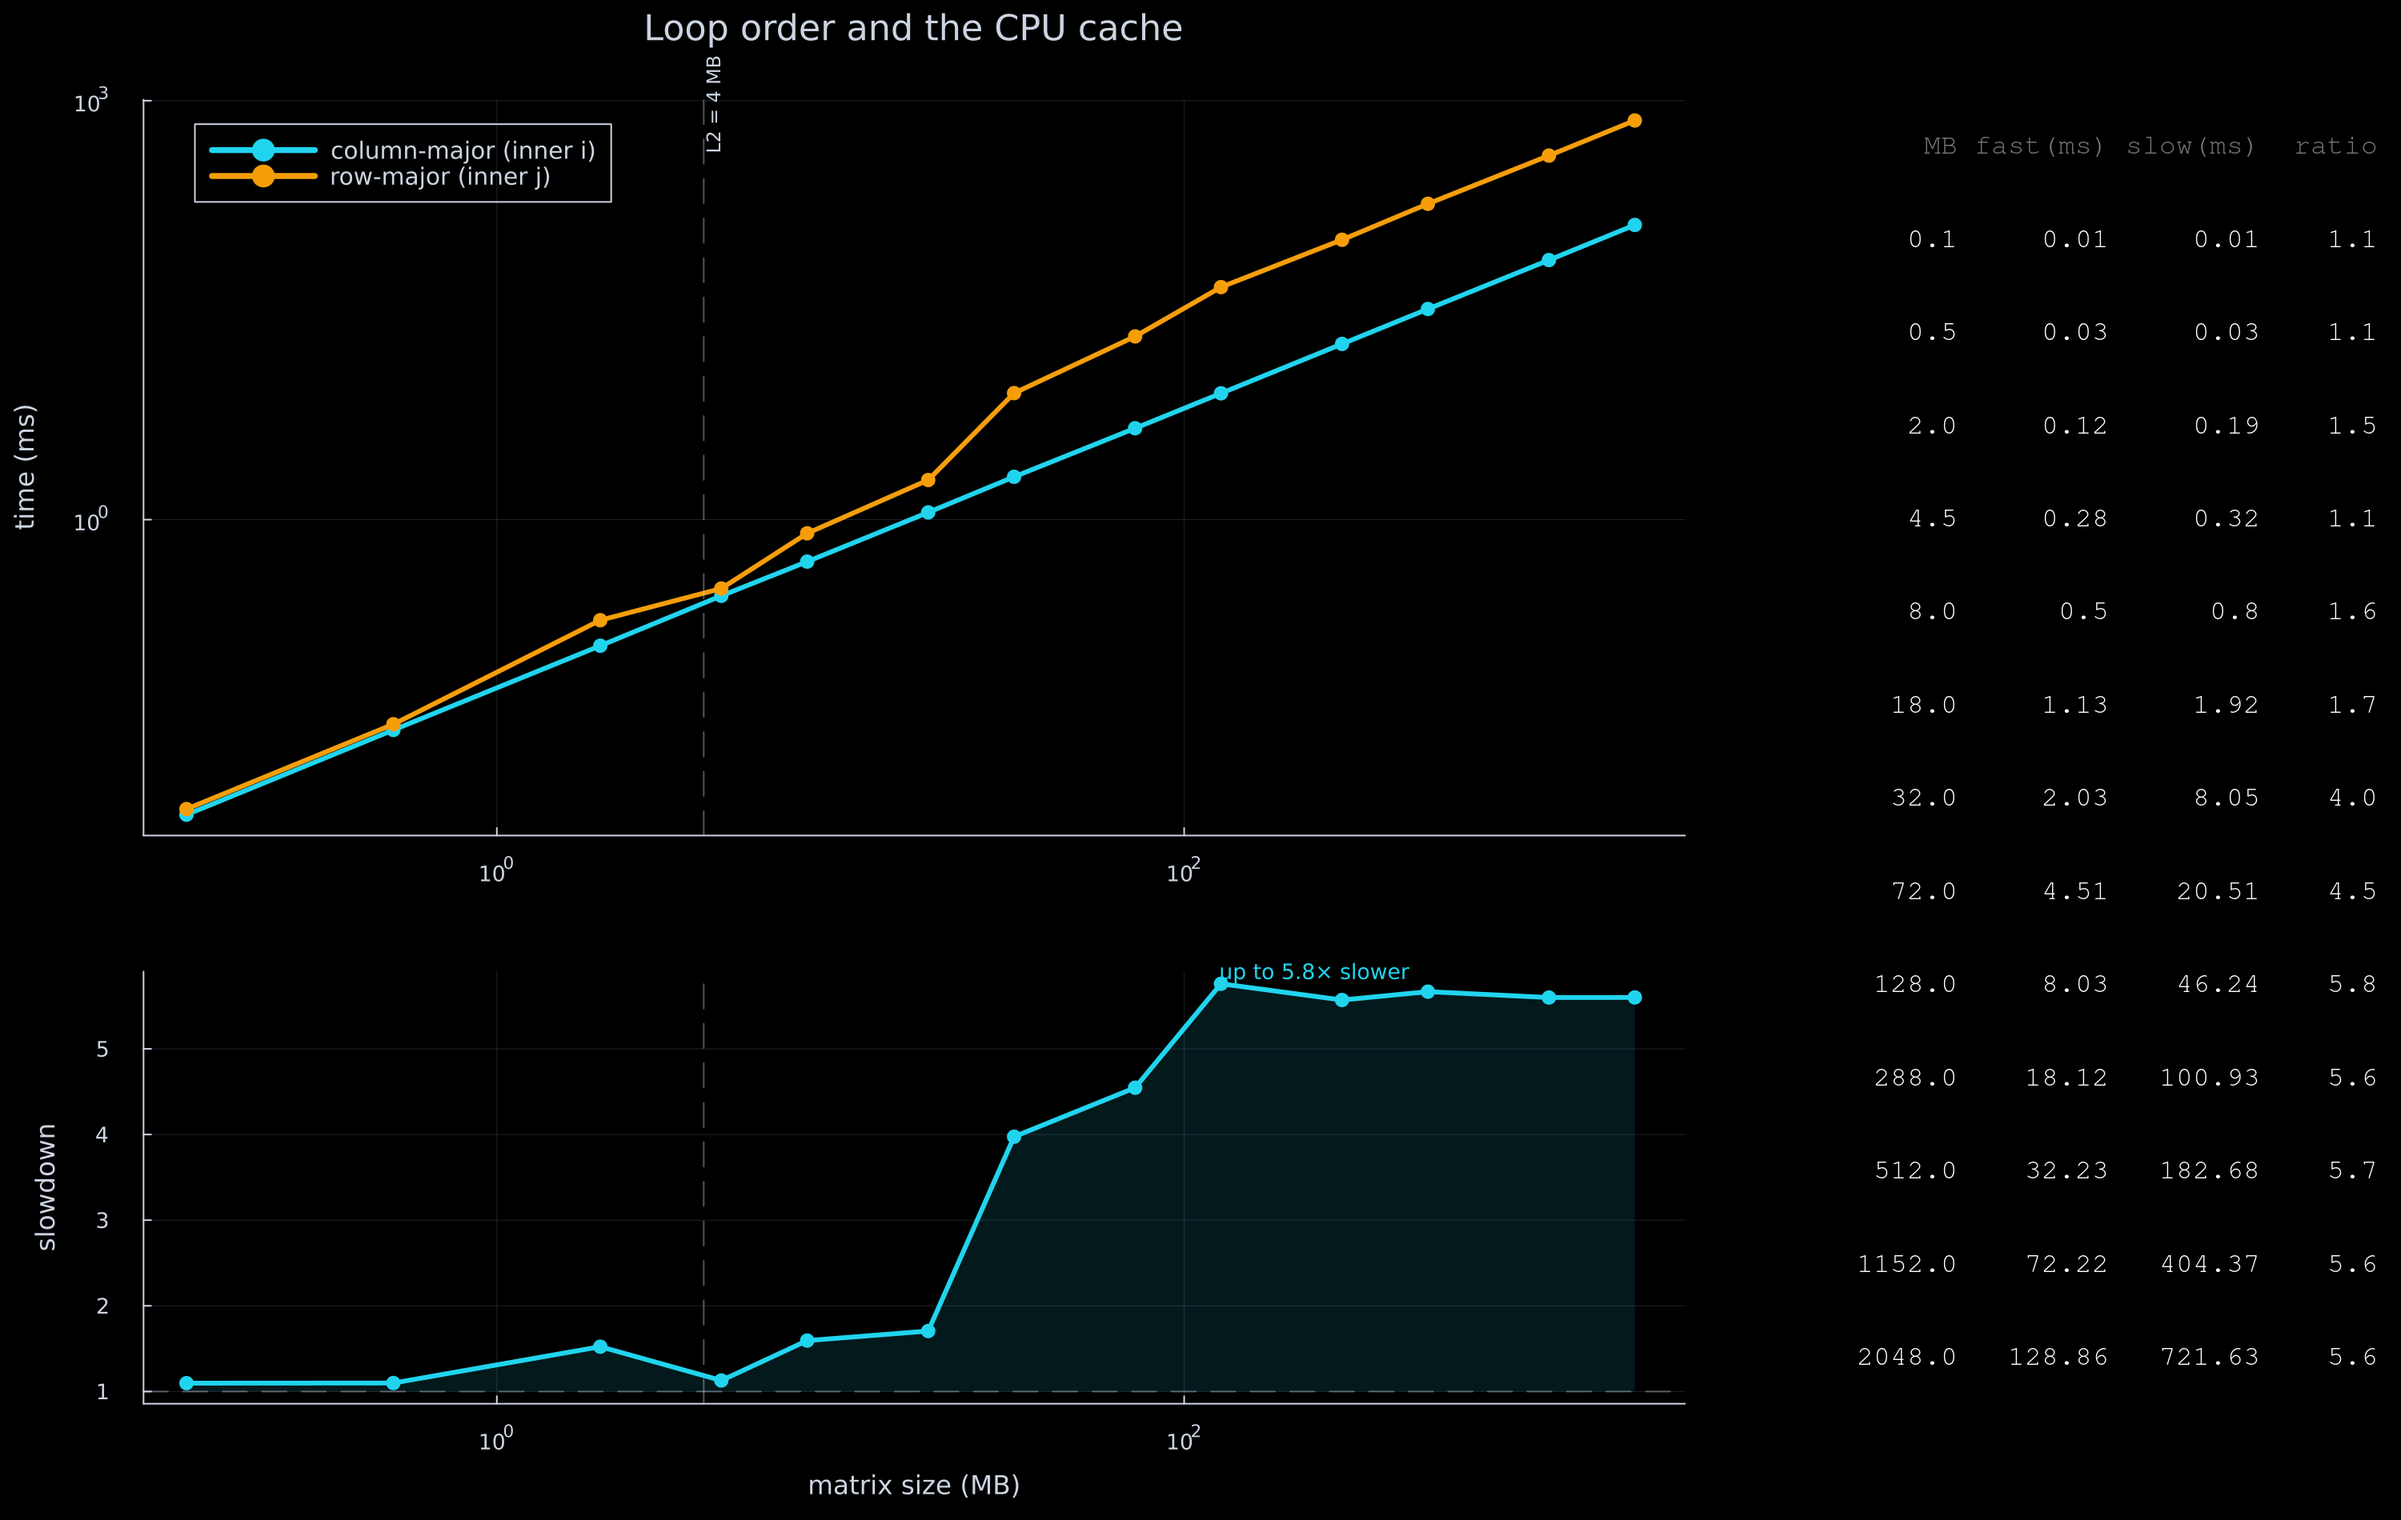
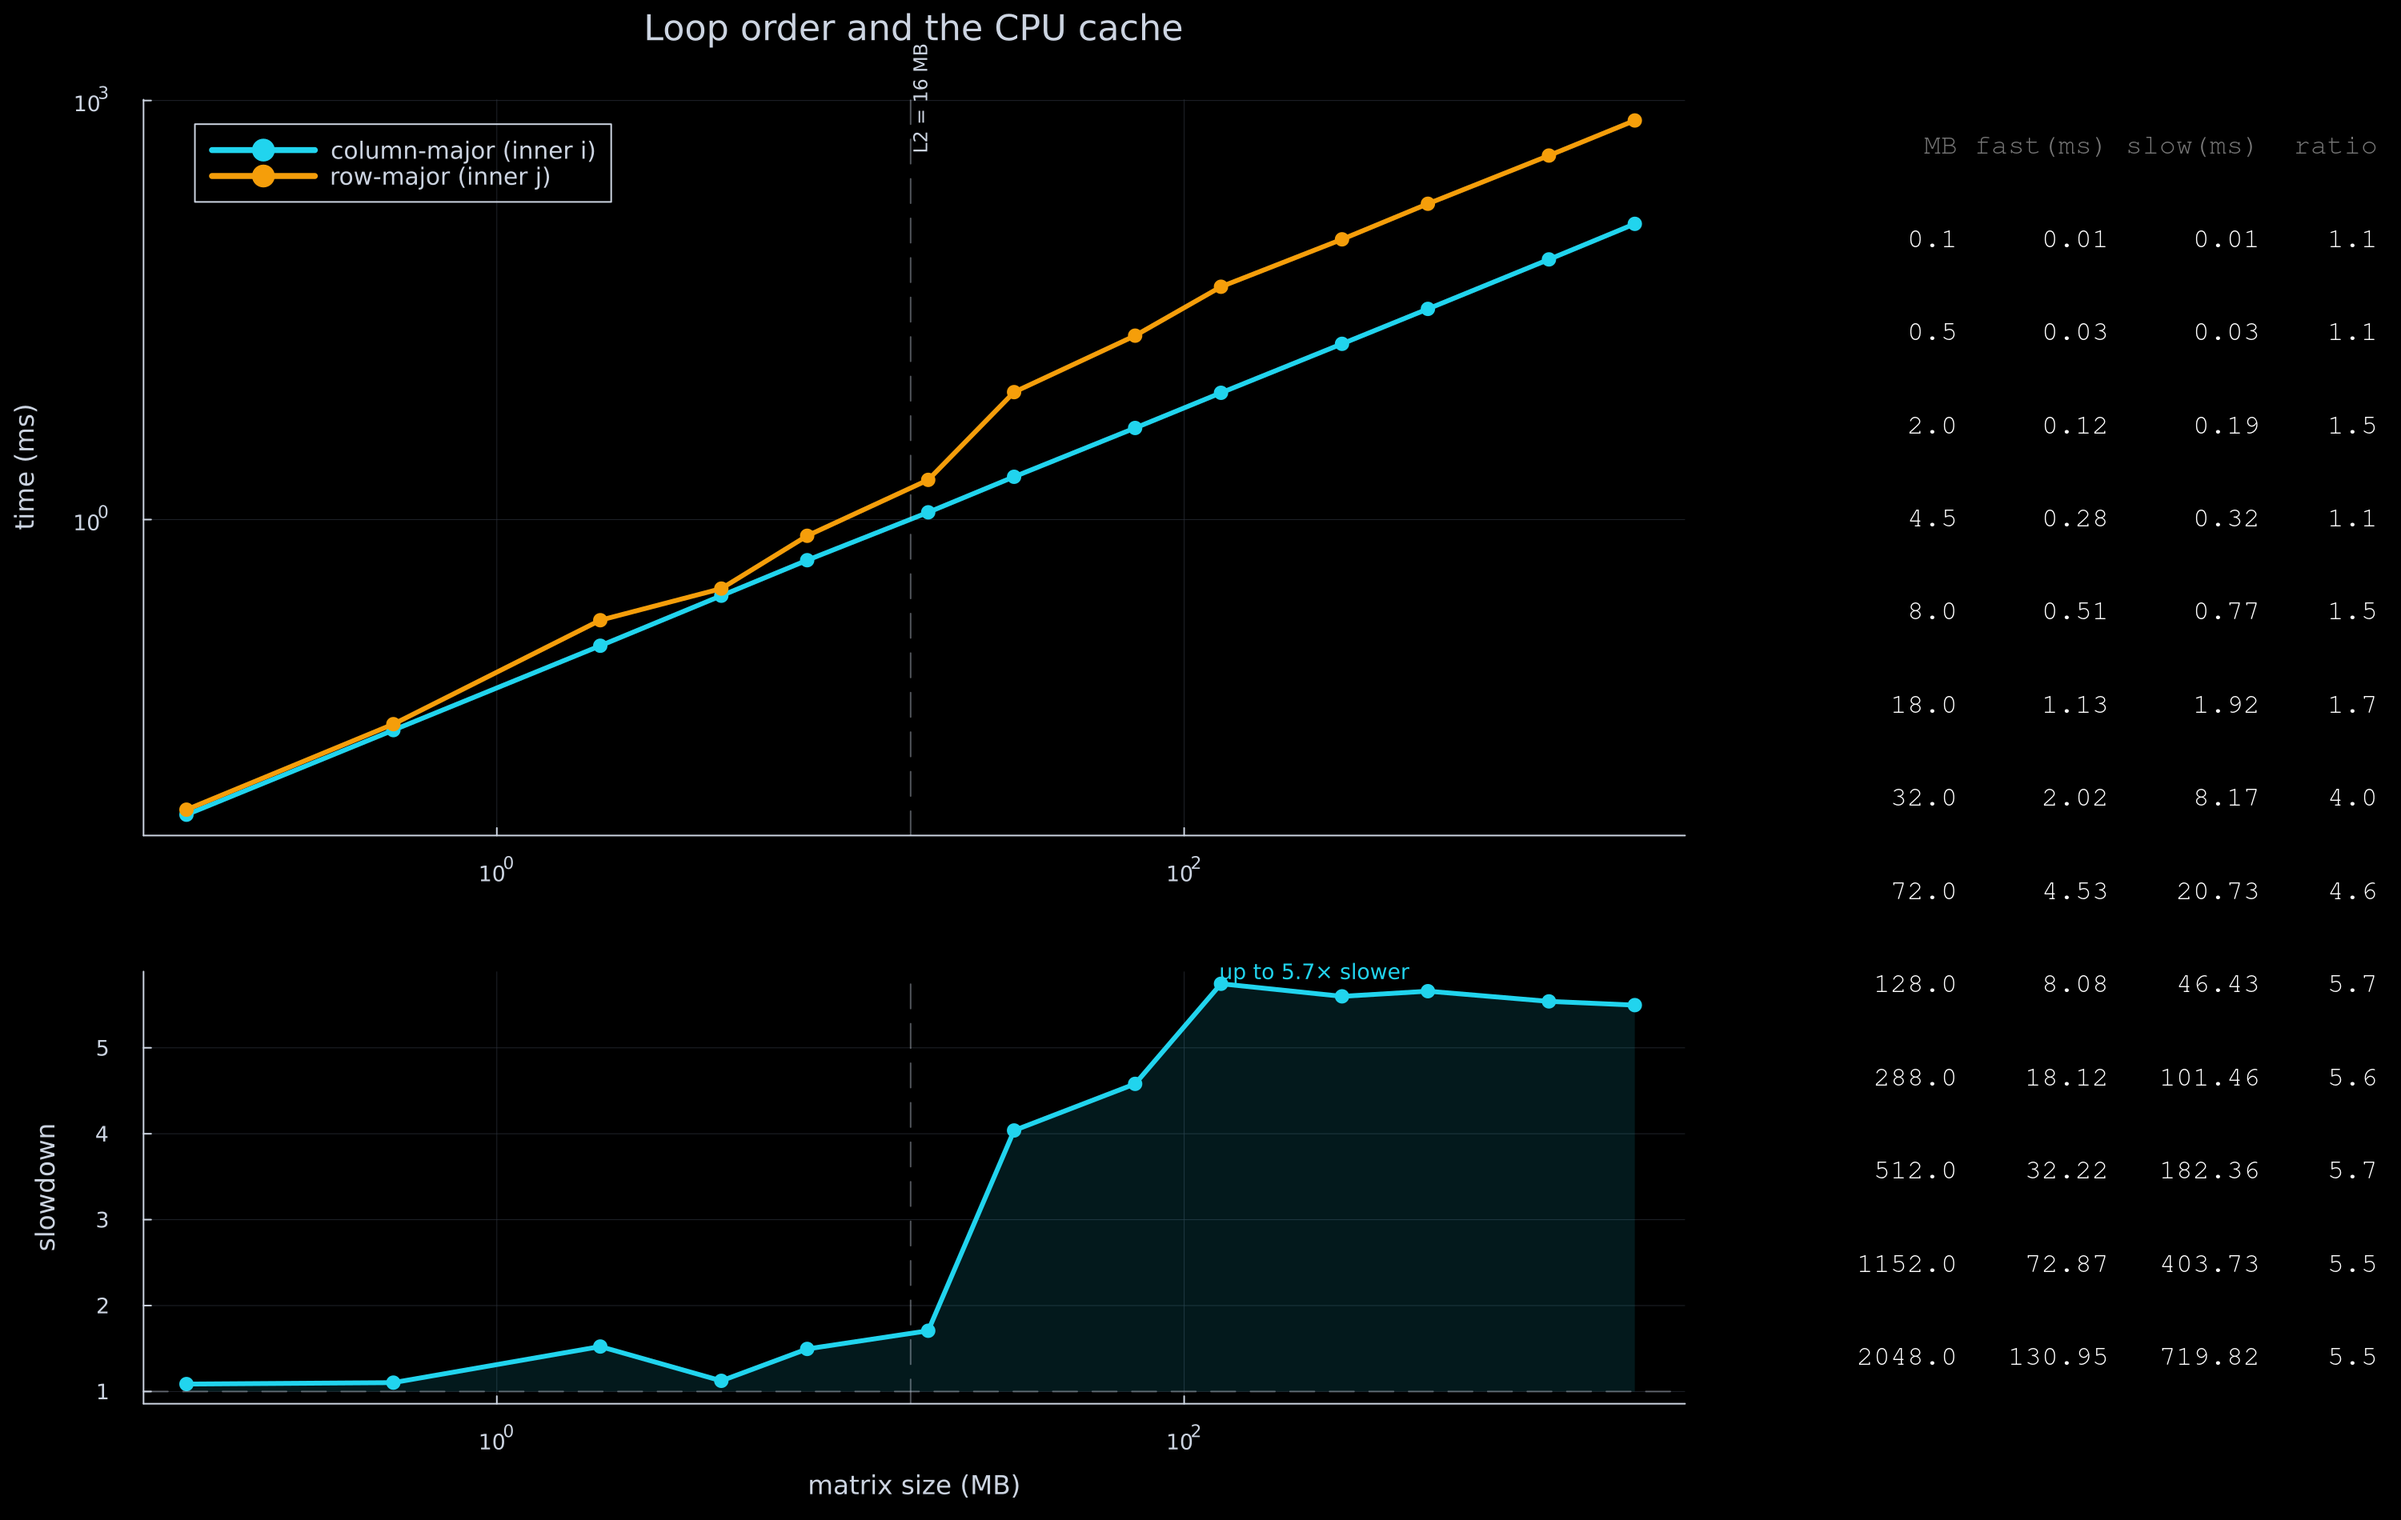
Update README and benchmark for cache order (#2)
* update cache order readme file

* update readme and the benchmark

diff --git a/CacheOrder/README.md b/CacheOrder/README.md
@@ -1,0 +1,41 @@
+# Cache order
+
+Julia stores matrices **column-major** — `A[i, j]` sits next to `A[i+1, j]` in memory.
+The CPU also moves memory in fixed **cache lines** (128 bytes here, i.e. 16 `Float64`s),
+not one element at a time. Together, those two facts make loop order matter when you
+sum a matrix:
+
+- **inner loop `i`** (column-major) walks memory in order → every cache line it pulls
+  in gets fully used.
+- **inner loop `j`** (row-major) jumps a whole column each step → it touches a new
+  cache line almost every time and uses only one value from it.
+
+Same array, same additions — only the loop order changes. This benchmarks both orders
+on matrices from ~0.1 MB up to a 2 GB matrix.
+
+![result](cache_order.png)
+
+## What it shows
+
+- While the matrix fits in cache, order barely matters (~1×) — the "wasteful" loop
+  still finds its data in fast cache.
+- Once the matrix grows past the ~16 MB L2 cache, the row-major loop starts missing on
+  nearly every access and has to go to main memory → up to ~5.8× slower here.
+- The gap then plateaus: once the matrix is far larger than any cache, the row-major
+  loop pays a cache miss per access — a roughly fixed cost per element — so both orders
+  scale the same way with size and their ratio settles to a near-constant factor.
+
+## Hardware
+
+Measured on an **Apple M4 Pro** (48 GB RAM, 128-byte cache lines; performance cores
+have 128 KB L1d and 16 MB L2). The exact numbers — where the cliff sits and how big the
+plateau is — depend on the machine's cache sizes, so expect different values on other
+CPUs.
+
+## Run
+
+```bash
+julia --project=. loop_order_benchmark.jl
+```
+
+Writes `cache_order.png`.
